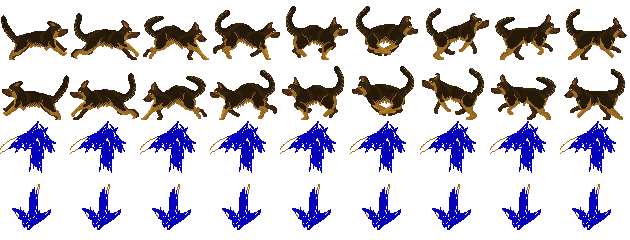
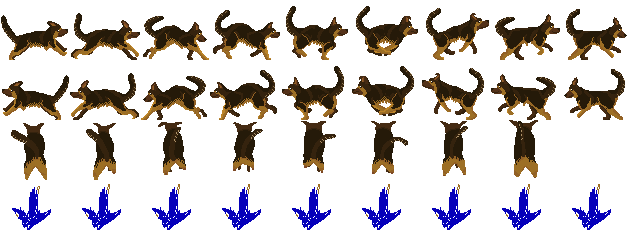
Health bars and new dog sprites

diff --git a/game/dog.js b/game/dog.js
@@ -5,6 +5,7 @@ dogSprites.src = "../assets/dog.png";
 // create the dog object with:
 // 	health
 var dog = {
+	name: "Dog",
 	width: 70,
 	height: 60,
 	x: 30,
@@ -17,7 +18,8 @@ var dog = {
 	yFrame: null,
 	yLastFrame: null,
 	lastFrame: null,
-	chasing: false
+	chasing: false,
+	health: 100
 }
 
 // function that takes current cat.x and cat.y
@@ -37,12 +39,12 @@ dog.chaseInit = function(catX, catY) {
 	if (targetY < 0) {
 		var yStartFrame = 18;
 		dog.yFrame = yStartFrame;
-		dog.yLastFrame = 26;
+		dog.yLastFrame = 25;
 	}
 	else{
-		var yStartFrame = 27;
+		var yStartFrame = 26;
 		dog.yFrame = yStartFrame;
-		dog.yLastFrame = 35;
+		dog.yLastFrame = 34;
 	}
 
 	return {
@@ -74,7 +76,7 @@ dog.chase = function(catX, catY) {
 	else{
 		dog.velX *= dog.friction;
 		dog.velY *= dog.friction;
-//TO DO, CHECK FOR NEGATIVES SO THE DOG CAN RUN IN VELX VELY NEGATIVE VALUES
+
 		if(tX > 0){
 			if(dog.velX < dog.speed){
 				dog.velX++;
@@ -130,6 +132,20 @@ dog.AI = function(){
 	if (wait % 100 === 0 && !dog.chasing) {
 		dog.chase(cat.x, cat.y);
 	}
+
+	//border collisions
+	if(dog.x > width - cat.width){
+		dog.x = width - cat.width;
+	}
+	else if(dog.x < 0){
+		dog.x = 0;
+	}
+	if (dog.y < house.topMold.height+house.wall.height+house.wallpaper.height - cat.height){
+		dog.y = house.topMold.height+house.wall.height+house.wallpaper.height - cat.height;
+	}
+	else if (dog.y > height - cat.height) {
+		dog.y = height - cat.height;
+	}
 };
 
 //dog idle function with appro anims
@@ -139,6 +155,7 @@ dog.draw = function() {
 	ctx.drawImage(dogSprites,
 		dogAnim[dog.currFrame].x, dogAnim[dog.currFrame].y, dog.width, dog.height,
 		dog.x, dog.y, dog.width, dog.height);
+	healthBar(dog.name, dog.health, 280, 35);
 };
 
 // an array with each sprite frame
@@ -169,13 +186,13 @@ dogAnim[22] = {x: 280, y: 120};
 dogAnim[23] = {x: 350, y: 120};
 dogAnim[24] = {x: 420, y: 120};
 dogAnim[25] = {x: 490, y: 120};
-dogAnim[26] = {x: 560, y: 120};
-dogAnim[27] = {x: 0, y: 180}; //down
-dogAnim[28] = {x: 70, y: 180};
-dogAnim[29] = {x: 140, y: 180};
-dogAnim[30] = {x: 210, y: 180};
-dogAnim[31] = {x: 280, y: 180};
-dogAnim[32] = {x: 350, y: 180};
-dogAnim[33] = {x: 420, y: 180};
-dogAnim[34] = {x: 490, y: 180};
-dogAnim[35] = {x: 560, y: 180};
+dogAnim[26] = {x: 0, y: 180}; //down
+dogAnim[27] = {x: 70, y: 180};
+dogAnim[28] = {x: 140, y: 180};
+dogAnim[29] = {x: 210, y: 180};
+dogAnim[30] = {x: 280, y: 180};
+dogAnim[31] = {x: 350, y: 180};
+dogAnim[32] = {x: 420, y: 180};
+dogAnim[33] = {x: 490, y: 180};
+dogAnim[34] = {x: 560, y: 180};
+

diff --git a/game/cat.js b/game/cat.js
@@ -4,6 +4,7 @@ catArrowImg.src = "../assets/catSprites.png";
 var tick = 0;
 
 var cat = {
+	name: "Cat",
 	x: 350,
 	y: 350,
 	speed: 5,
@@ -13,7 +14,8 @@ var cat = {
 	width: 40,
 	height: 40,
 	walkFrame: 0,
-	wasFacing: "left" //leftover from old jumping animation but might be necessary for attack anim
+	wasFacing: "left", //leftover from old jumping animation but might be necessary for attack anim
+	health: 100
 }
 
 cat.move = function() {
@@ -93,10 +95,23 @@ cat.move = function() {
 	}
 }
 
+var healthBar = function(name, health, x, y){
+	var rectWidth = health;
+	var rectHeight = 10;
+	ctx.fillStyle = "red";
+	ctx.fillRect(x, y, rectWidth, rectHeight);
+	ctx.strokeRect(x, y, 100, rectHeight);
+	ctx.fillStyle = "black";
+	ctx.font = "10pt Lucida Console";
+	ctx.fillText(name, x, y-4);
+}
+
 cat.draw = function() {
 	ctx.drawImage(catArrowImg,
 		catSprite[cat.walkFrame].x, catSprite[cat.walkFrame].y, cat.width, cat.height,
 		cat.x, cat.y, cat.width, cat.height);
+	
+	healthBar(cat.name, cat.health, 10, 35);
 }
 
 //each holds a sprite location
